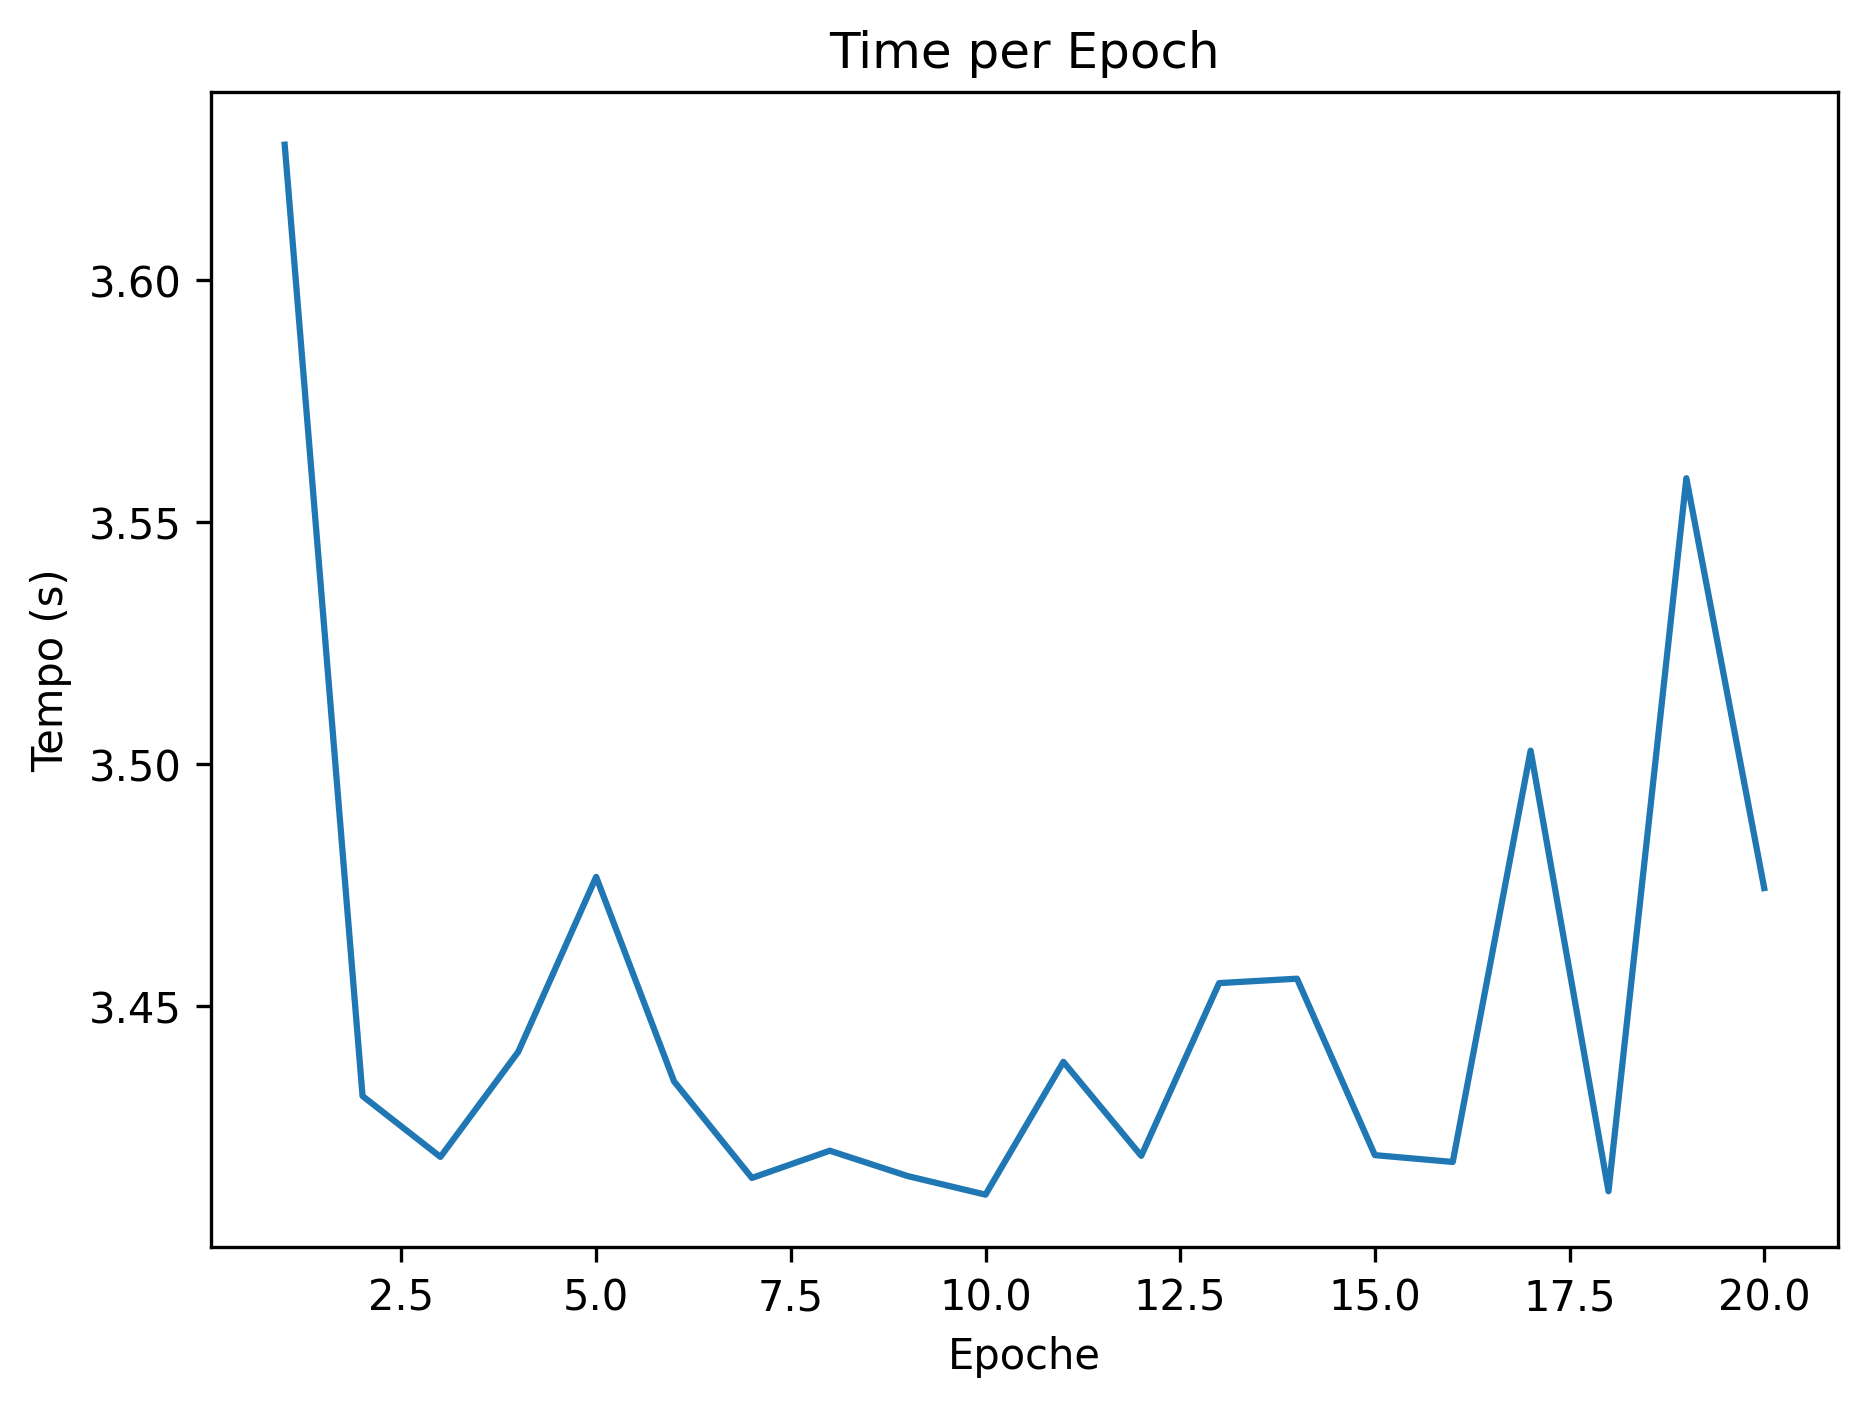
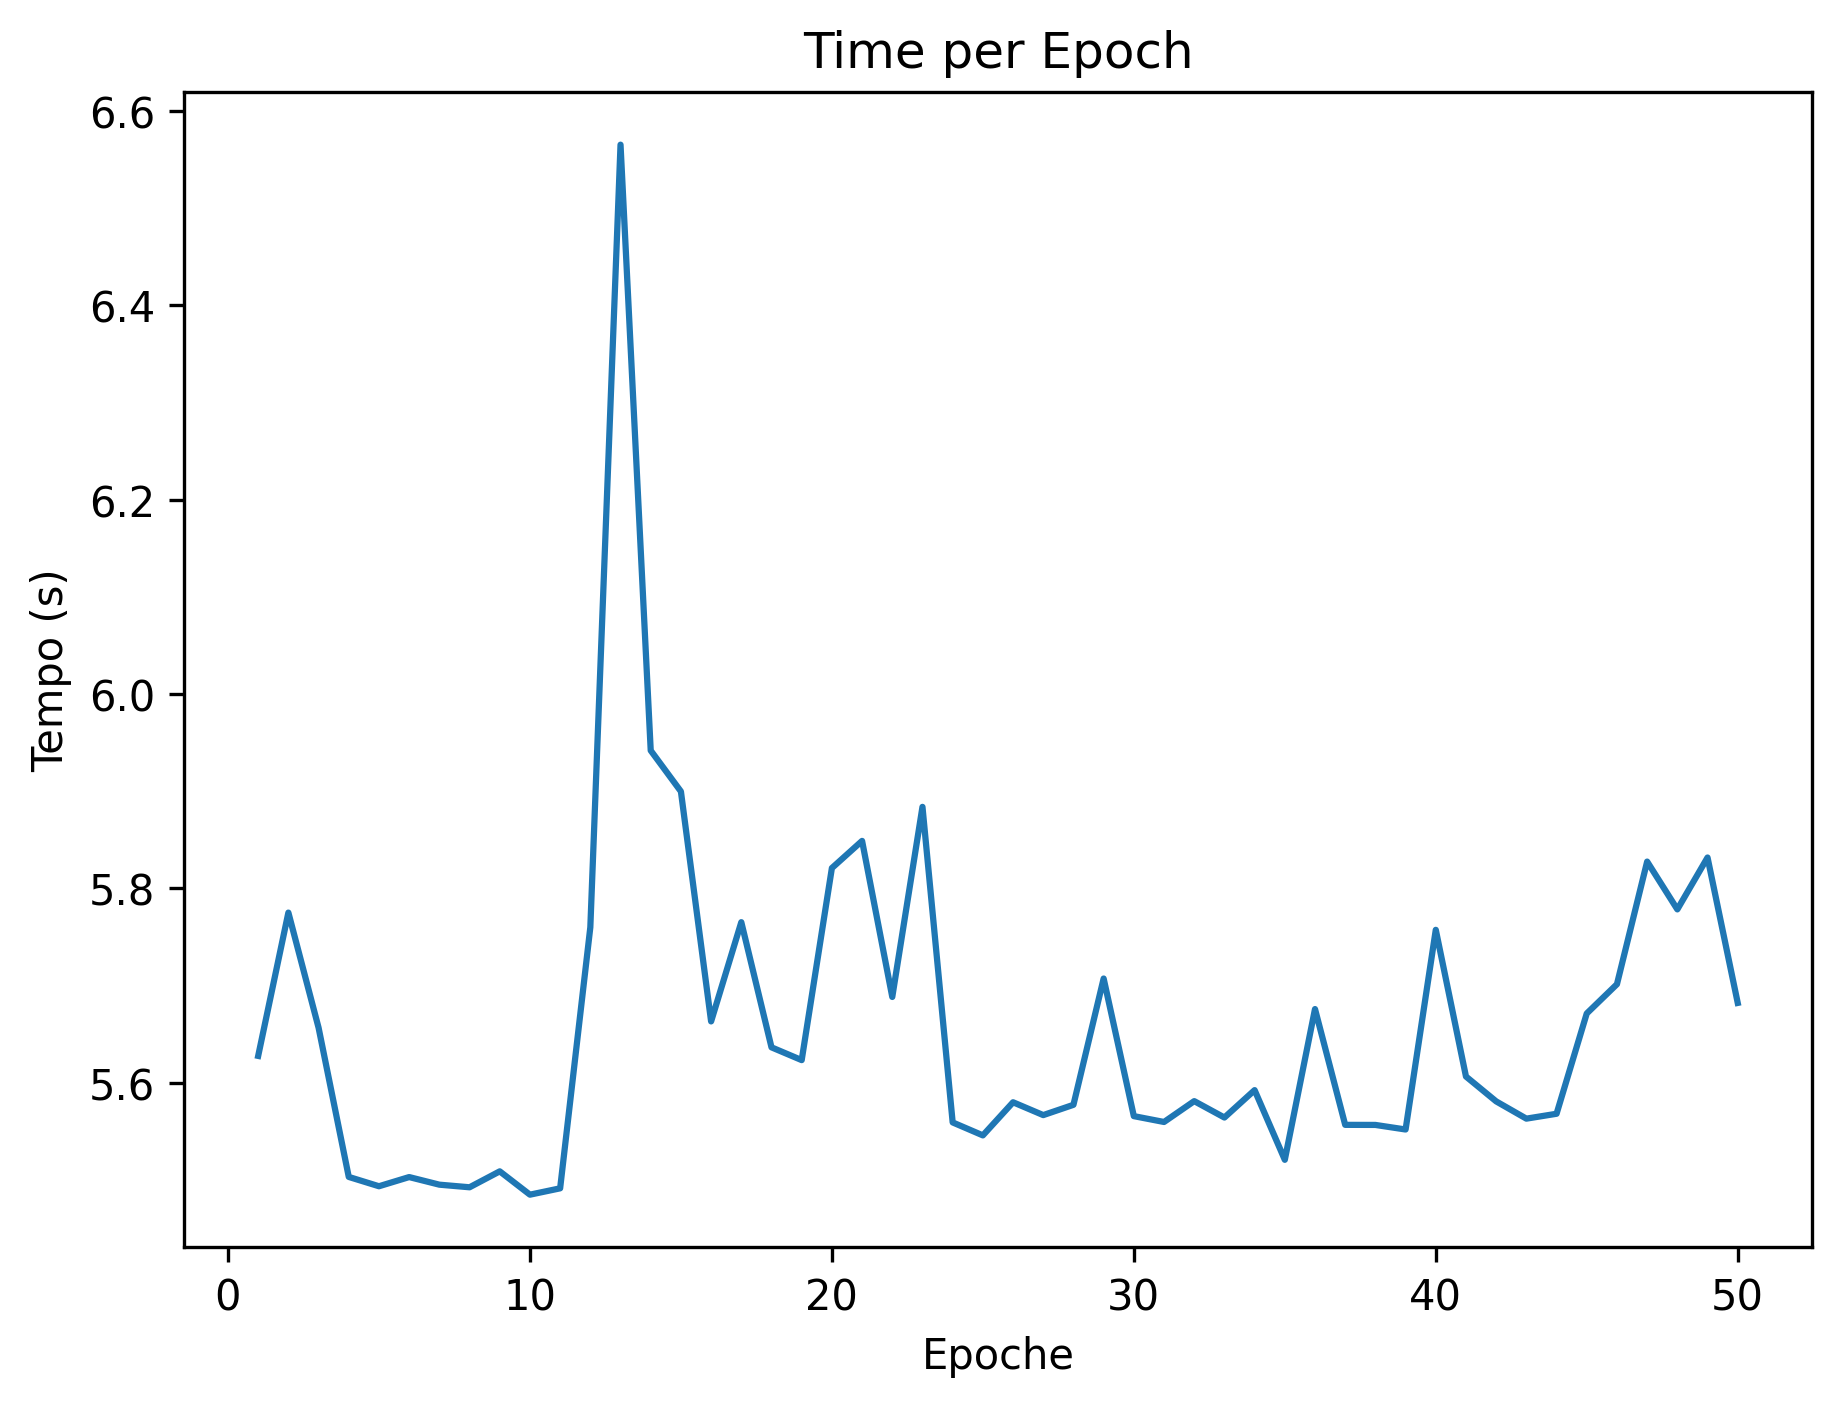
modello funzionante

diff --git a/src/main.py b/src/main.py
@@ -47,12 +47,12 @@ def main():
     test_loader = DataLoader(test_data, batch_size=32, shuffle=False)
     #model creation obj 
     
-    model = GNNModel(in_channels=4,hidden_channels=32)
+    model = GNNModel(in_channels=8,hidden_channels=128)
     
     #ogetto trainer in per poi usare run(funzione che fa il training )
     trainer = GNNTrainer(model, train_loader, test_loader, lr=0.001)
     print(trainer.device)
-    trainer.run(epochs=20)
+    trainer.run(epochs=50)
     
     visualizer = ModelVisualizer()
     
@@ -67,58 +67,10 @@ def main():
 
     trainer.evaluate_GNN()
 
-'''
-
-    # obj 
-    extractor = FeatureExtractor()
-    
-    features_df, failed = extractor.transform(df)
-
-    print(f"Feature dataset: {len(features_df)} righe")
-
-    # STEP 4 — X e y
-    X, y = extractor.get_xy(features_df)
-
-    print("Shape X:", X.shape)
-    print("Shape y:", y.shape)
-
-    #obj
-    trainer = ModelTrainer()
-    #train pipeline (X,y) -> split, train, predict, evaluate
-    metrics = trainer.train_pipeline(X, y)
-    print("Metriche finali:", metrics)
-    #get feature importance (extractor.feature_names ) -> print importance  
-    importance_df = trainer.get_feature_importance(extractor.feature_names)
-    print("Importanza delle feature:") 
-    print(importance_df)
-   
-    visualizer = ModelVisualizer()
-
-    visualizer.plot_predictions(
-        trainer.y_test,
-        trainer.y_pred,
-        title="Random Forest: Predicted vs Actual"
-    )
-
-    visualizer.plot_errors(
-        trainer.y_test,
-        trainer.y_pred,
-        bins=30,
-        title="Random Forest: Error Distribution"
-    )
-
-    importance_df = trainer.get_feature_importance(X.columns)
-
-    visualizer.plot_feature_importance(
-        importance_df,
-        top_n=10,
-        title="Random Forest: Top 10 Feature Importances"
-    )
-    
-    
-    print("Pipeline completata!")
-
-'''
+    print("y_true mean/std:", y_true.mean(), y_true.std())
+    print("y_pred mean/std:", y_pred.mean(), y_pred.std())
+    print("y_true min/max:", y_true.min(), y_true.max())
+    print("y_pred min/max:", y_pred.min(), y_pred.max())
 
 if __name__ == "__main__":
     main()

diff --git a/src/modello/modello.py b/src/modello/modello.py
@@ -11,7 +11,7 @@ from sklearn.metrics import mean_absolute_error, mean_squared_error, r2_score
 import torch
 import torch.nn.functional as F
 from torch.nn import Linear
-from torch_geometric.nn import GCNConv, global_mean_pool
+from torch_geometric.nn import GCNConv, global_mean_pool, global_add_pool
 
 class ModelTrainer:
     def __init__(self, test_size=0.2, random_state=42, n_estimators=200):
@@ -83,10 +83,6 @@ class ModelTrainer:
 
         return importance_df
   
- 
-        
-
-
 
 class GNNModel(torch.nn.Module):
     def __init__(self, in_channels, hidden_channels=64):
@@ -99,7 +95,8 @@ class GNNModel(torch.nn.Module):
         self.conv2 = GCNConv(hidden_channels, hidden_channels)
 
         # Output finale per regressione
-        self.lin = Linear(hidden_channels, 1)
+        self.lin1 = Linear(hidden_channels,hidden_channels)
+        self.lin2 = Linear(hidden_channels, 1)
 
     def forward(self, x, edge_index, batch):
         # Primo messaggio tra nodi
@@ -113,10 +110,12 @@ class GNNModel(torch.nn.Module):
         x = F.relu(x)
 
         # Aggregazione da nodi -> grafo
-        x = global_mean_pool(x, batch)
+        x = global_add_pool(x, batch)
 
         # Predizione finale
-        x = self.lin(x)
+        x = self.lin1(x)
+        x = F.relu(x)
+        x = self.lin2(x)
 
         return x
 

diff --git a/src/graph/graf.py b/src/graph/graf.py
@@ -13,10 +13,14 @@ class Graph_tools :
     
     def atom_features(self, atom):
         return [
-            atom.GetAtomicNum(),
-            atom.GetDegree(),
-            atom.GetFormalCharge(),
-            int(atom.GetIsAromatic()),
+        atom.GetAtomicNum(),              # numero atomico
+        atom.GetDegree(),                 # numero di vicini
+        atom.GetFormalCharge(),           # carica formale
+        int(atom.GetIsAromatic()),        # aromatico o no
+        atom.GetTotalNumHs(),             # numero totale di H
+        atom.GetValence(Chem.ValenceType.IMPLICIT),        # valenza implicita
+        atom.GetValence(Chem.ValenceType.EXPLICIT),        # valenza implicita
+        int(atom.IsInRing())              # atomo in anello
         ]
     def smiles_to_graph(self,smiles,target):
         mol = Chem.MolFromSmiles(smiles)    
